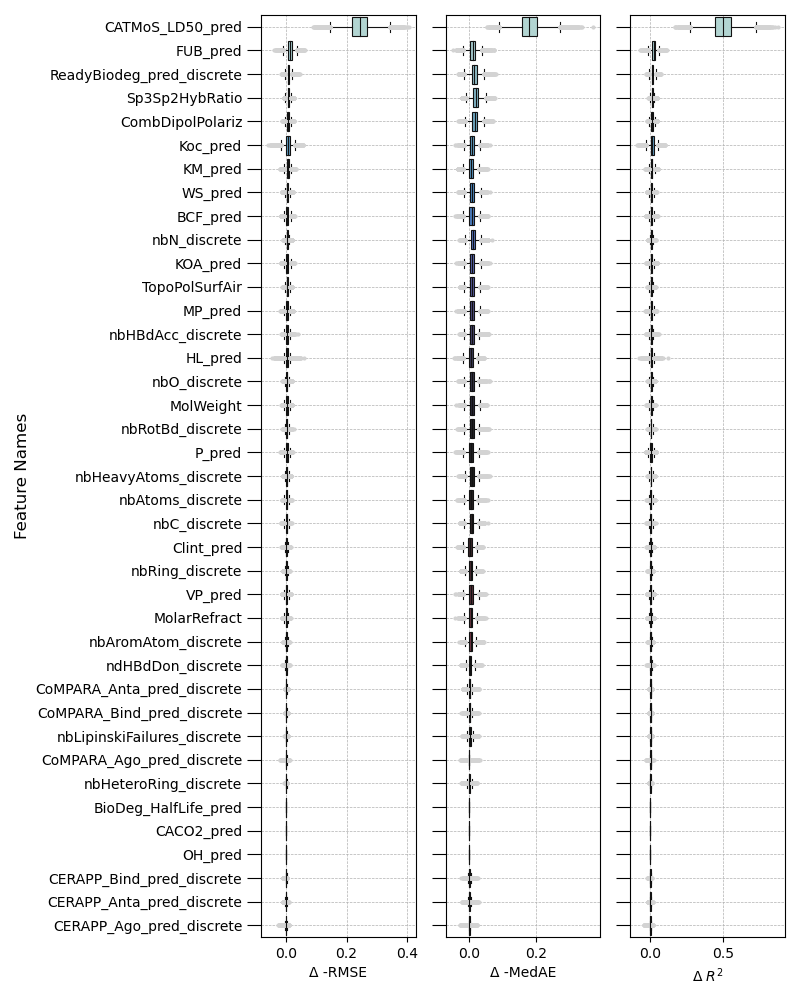
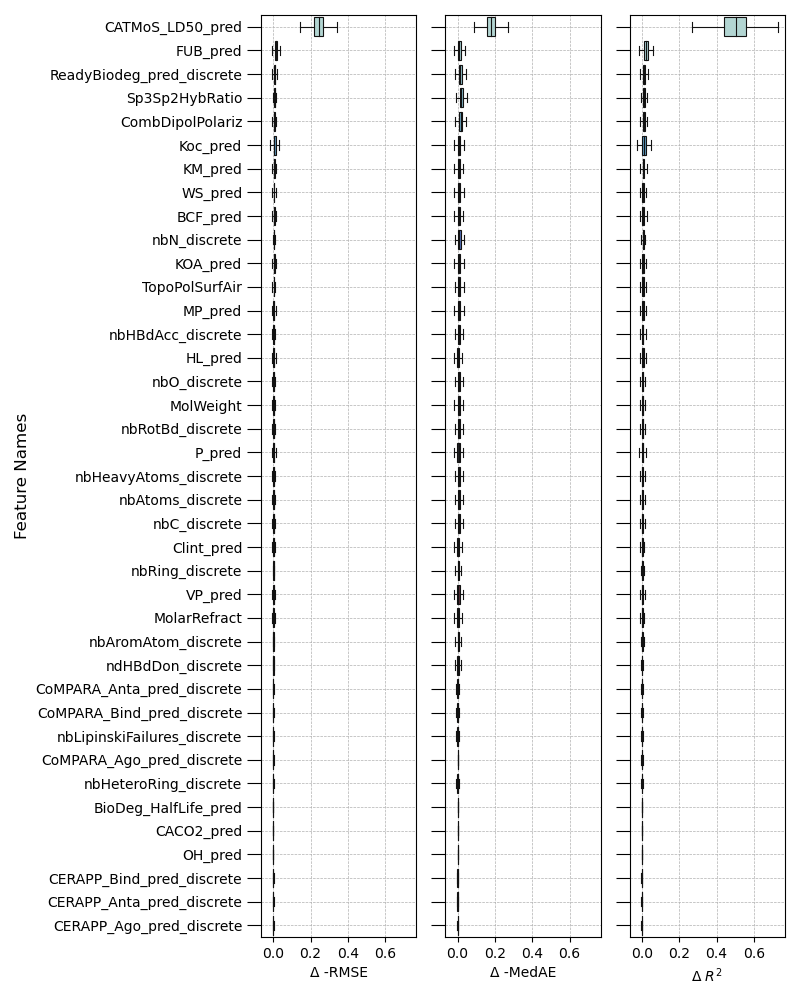
Update feature importances plots: Use global xlim

diff --git a/plot.py b/plot.py
@@ -1061,6 +1061,9 @@ def _feature_importances_subplot(
     for model_key in model_keys:
 
         df_wide = results_analyzer.read_result(model_key, result_type)
+        
+        # FIXME: Pass the subset directly into the helper function?
+        xlim = _compute_global_x_limits([df_wide[list(plot_settings.label_for_scoring)]])
 
         fig, axs = plt.subplots(
             ncols=len(plot_settings.label_for_scoring),
@@ -1074,9 +1077,13 @@ def _feature_importances_subplot(
             'feature',
             plot_settings.label_for_scoring, 
             'scoring',
-            xlim=(),
+            xlim=xlim,
             ylabel=plot_settings.feature_names_label
         )
+
+        # Set tick marks dynamically
+        for ax in axs:
+            ax.xaxis.set_major_locator(MaxNLocator(5))
 
         fig.tight_layout()
 
@@ -1183,7 +1190,7 @@ def _sns_boxplot_wrapper(
         linewidth=0.8,
         dodge=False,
         ax=ax,
-        flierprops=_flierprops, 
+        showfliers=False, 
         **kwargs
     )
 
@@ -1941,23 +1948,13 @@ def predictions_by_missing_feature(results_analyzer, plot_settings):
         grouped_keys = results_analyzer.group_model_keys('target_effect')
         
         for grouping_key, model_keys in grouped_keys:
-            whisker_data = []
 
-            # First loop to determine whisker data
+            ## Define the global x-limits based on the interquartile ranges
+            series_list = []
             for model_key in model_keys:
-                y_pred_out, _, *_ = results_analyzer.predict_out_of_sample(model_key)
-                y_pred_in, _, *_ = results_analyzer.get_in_sample_prediction(model_key)
-
-                whisker_data.extend(
-                    [_calculate_whisker_data(y_pred_out), 
-                     _calculate_whisker_data(y_pred_in)]
-                     )
-
-            global_min = min(data[0] for data in whisker_data)
-            global_max = max(data[1] for data in whisker_data)
-            
-            buffer = (global_max - global_min) * 0.05
-            x_limits = (global_min - buffer, global_max + buffer)
+                series_list.append(results_analyzer.predict_out_of_sample(model_key)[0])
+                series_list.append(results_analyzer.get_in_sample_prediction(model_key)[0])
+            x_limits = _compute_global_x_limits(series_list)
 
             n_effects = len(model_keys)
             fig, axs = plt.subplots(
@@ -2005,6 +2002,36 @@ def predictions_by_missing_feature(results_analyzer, plot_settings):
 
             fig.tight_layout()
             save_figure(fig, predictions_by_missing_feature, grouping_key)
+#endregion
+
+#region: _compute_global_x_limits
+def _compute_global_x_limits(data_containers):
+    '''
+    Compute global x limits based on IQR for a list of pandas Series or DataFrames.
+    
+    Parameters:
+    - data_containers: List containing pandas Series or DataFrames with the data.
+    
+    Returns:
+    - xlim: Tuple containing the x limits.
+    '''
+    whisker_data = []
+
+    # Loop through data_containers to determine whisker data
+    for data in data_containers:
+        if isinstance(data, pd.Series):
+            whisker_data.append(_calculate_whisker_data(data))
+        elif isinstance(data, pd.DataFrame):
+            for column in data.columns:
+                whisker_data.append(_calculate_whisker_data(data[column]))
+
+    global_min = min(data[0] for data in whisker_data)
+    global_max = max(data[1] for data in whisker_data)
+
+    buffer = (global_max - global_min) * 0.05
+    xlim = (global_min - buffer, global_max + buffer)
+
+    return xlim
 #endregion
 
 #region: _calculate_whisker_data
